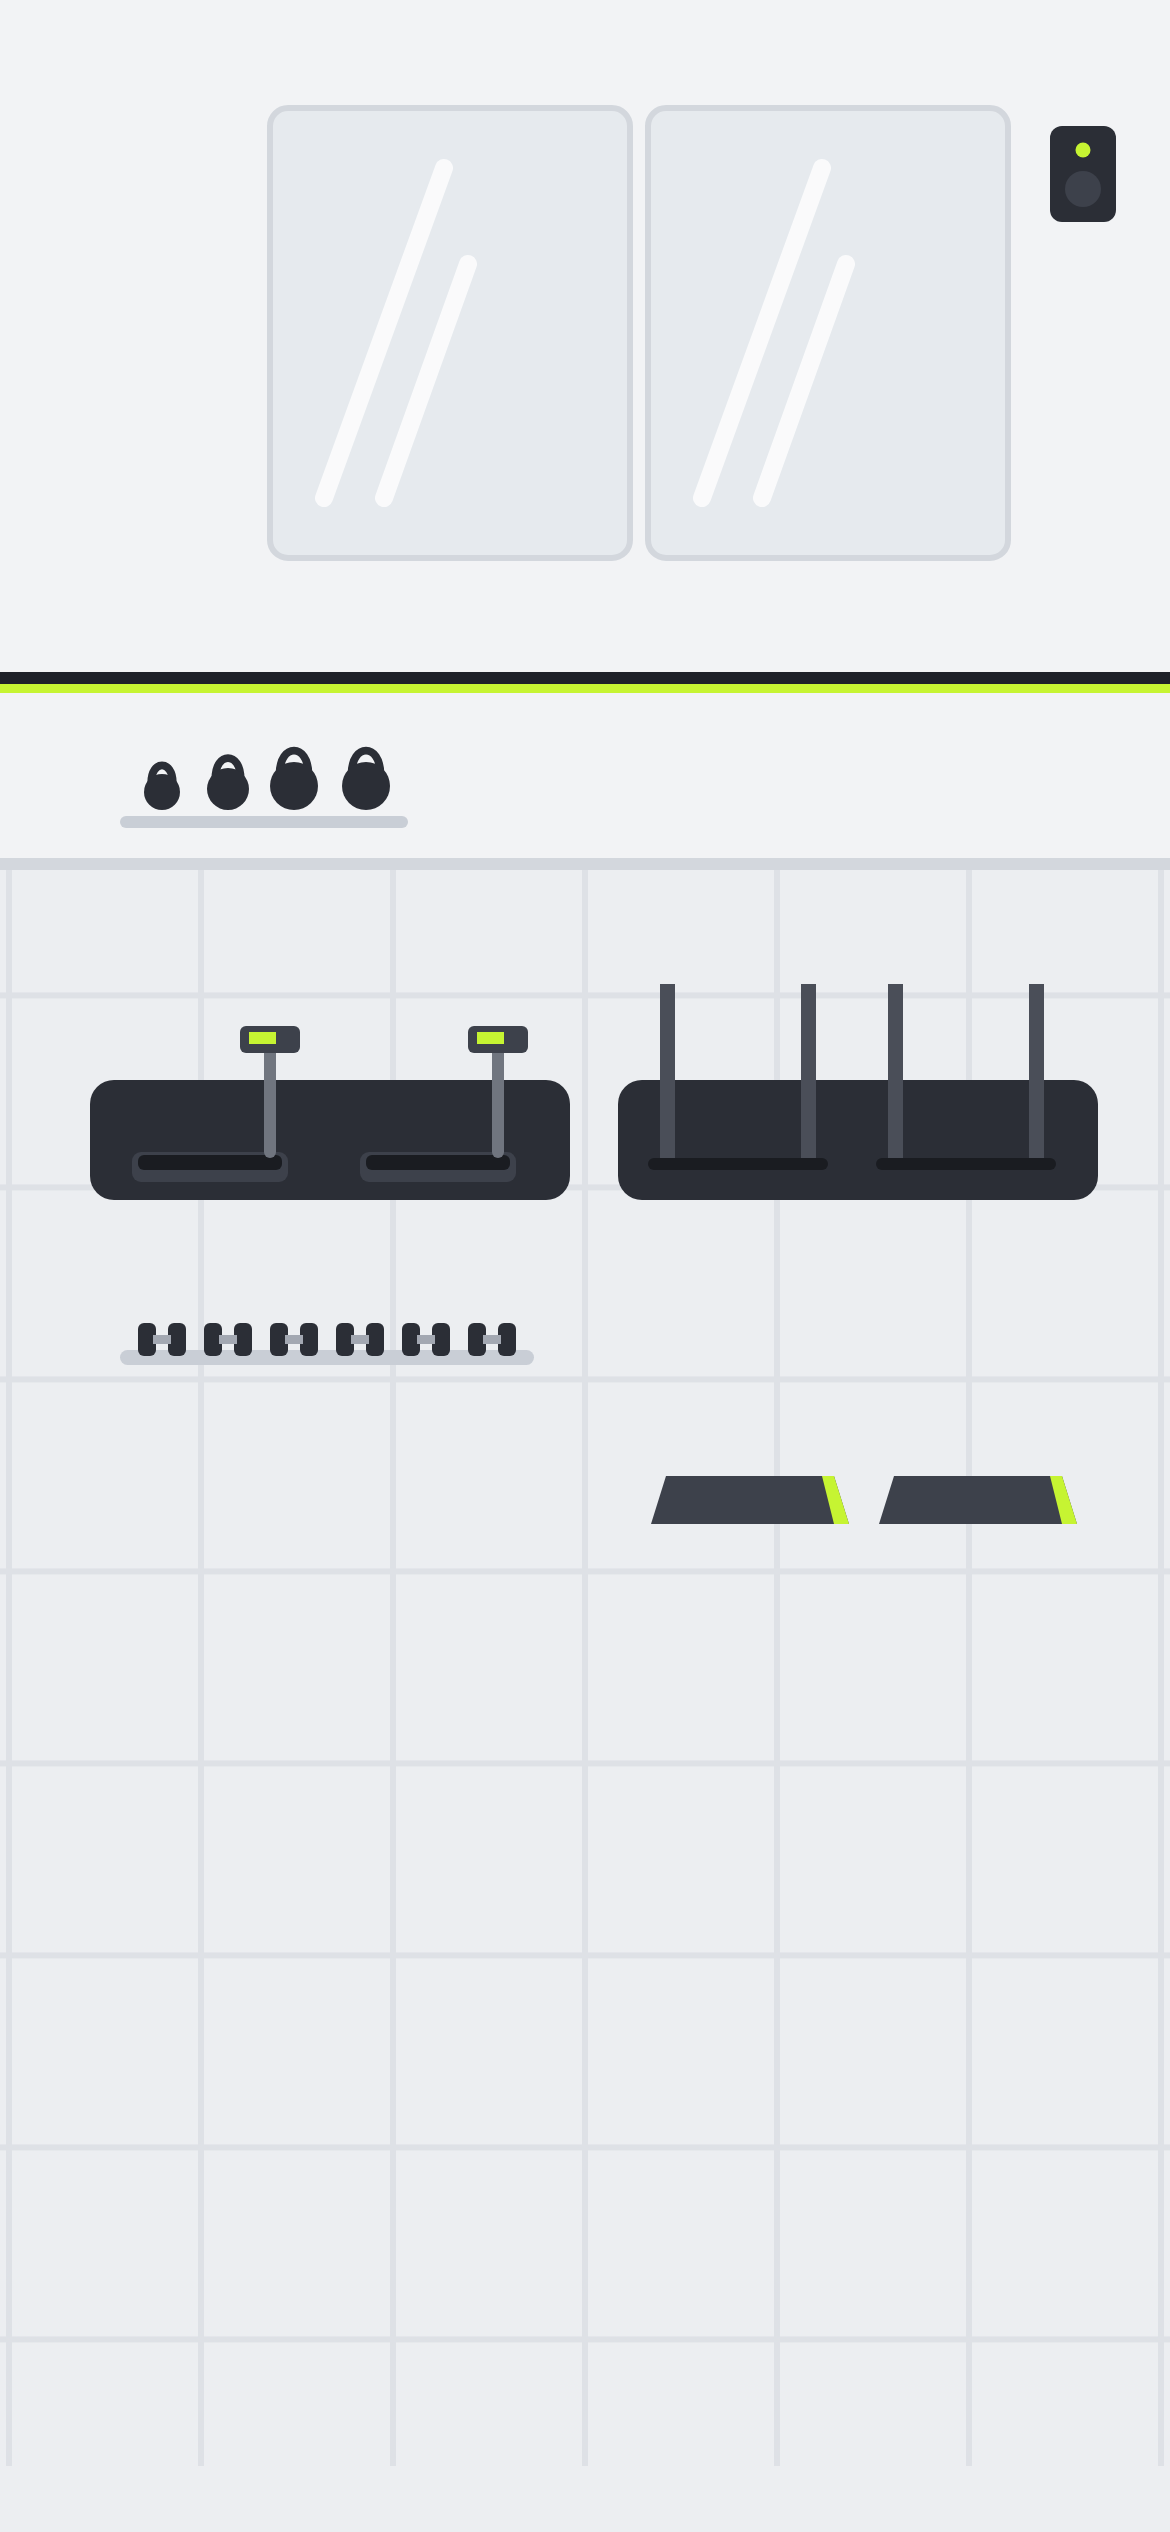
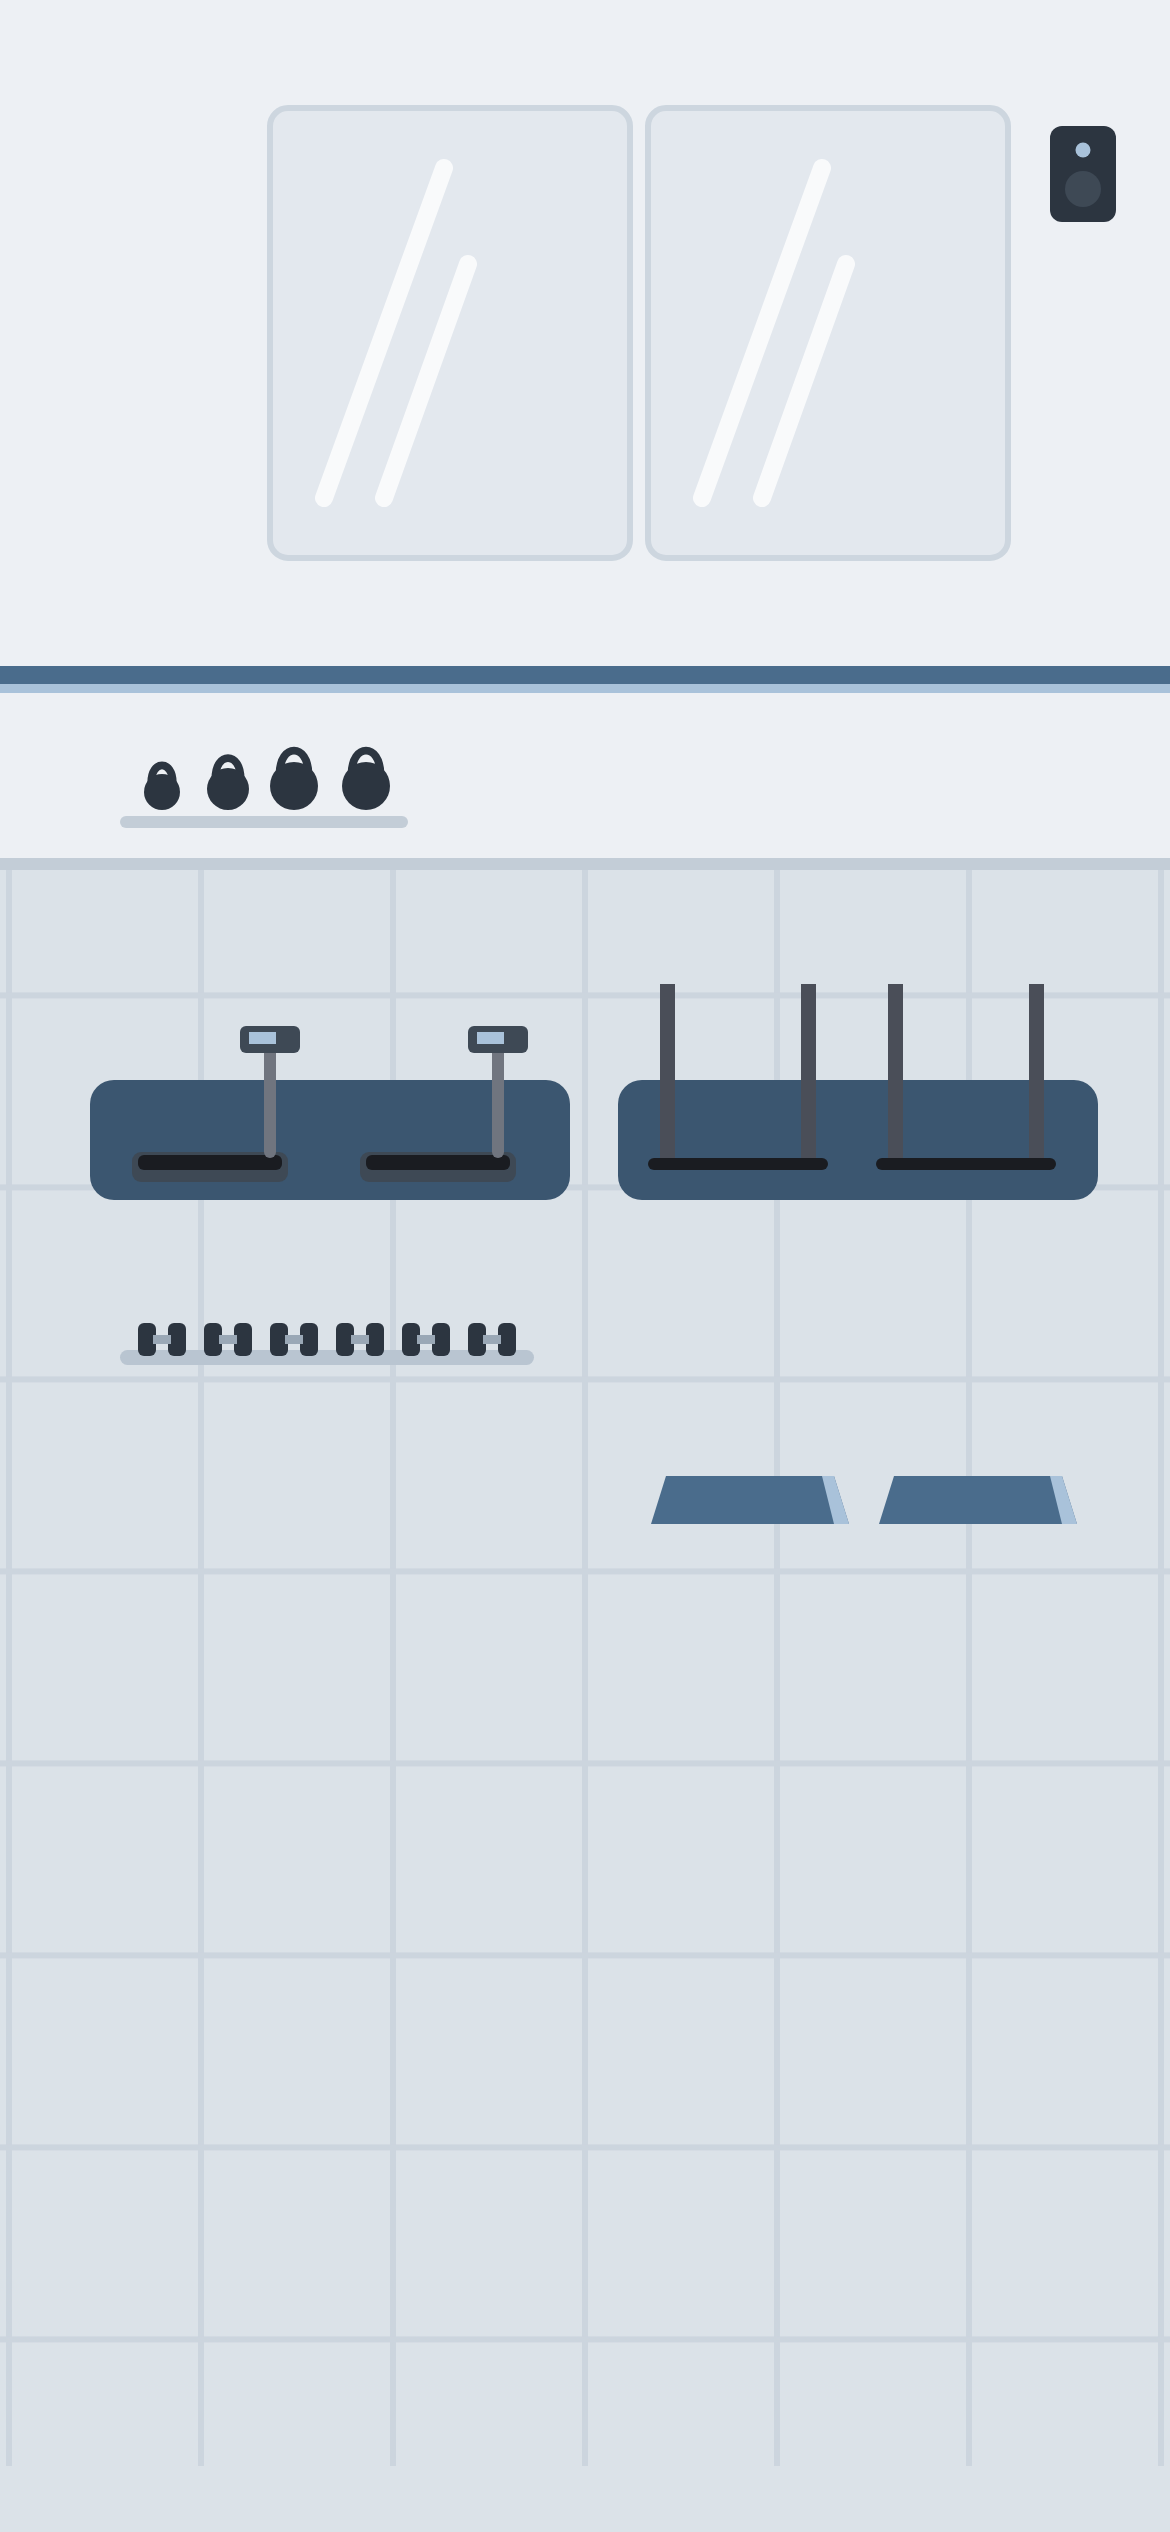
Draw the home's gym in steel
The approved steel gym: steel-grey wall and floor, a steel line and mats
under the machines, steel-tinted equipment and pale steel screens, no
volt. scenes.js's gym() and THEMES.gym carry the values; the PNGs are
what render.mjs writes from it.

Claude-Session: https://claude.ai/code/session_01LMX8JvSMesiaejZneimqLM

diff --git a/ios/Packages/CheckIn/SceneArt/scenes.js b/ios/Packages/CheckIn/SceneArt/scenes.js
@@ -5,7 +5,7 @@ const f1 = n => (+n).toFixed(1);
 const THEMES = {
   track:  { name: '跑道',   sig: '#E65345', shade: '#C23B2E', wash: '#FCEDEB', text: '#B83325', on: '#FFFFFF' },
   pool:   { name: '泳池',   sig: '#079BB8', shade: '#067C93', wash: '#E2F5F9', text: '#066E83', on: '#FFFFFF' },
-  gym:    { name: '健身房', sig: '#1F2128', shade: '#000000', wash: '#EEF0F2', text: '#1F2128', on: '#C6F432' },
+  gym:    { name: '健身房', sig: '#4A6C8C', shade: '#3B5670', wash: '#EDF0F4', text: '#3E5C78', on: '#FFFFFF' },
   tennis: { name: '网球场', sig: '#4F6B22', shade: '#3B5119', wash: '#EEF2E4', text: '#41591B', on: '#FFFFFF' },
   climb:  { name: '攀岩馆', sig: '#8E4A2C', shade: '#6F3820', wash: '#F6EDE8', text: '#7A3E24', on: '#FFFFFF' },
 };
@@ -130,27 +130,27 @@ const SCENES = {
     };
   },
   gym() {
-    const G1 = '#2B2E36', G2 = '#3D414B', V = '#C6F432';
-    let s = `<rect width="390" height="844" fill="#F2F3F5"/>`;
+    const G1 = '#2C3540', G2 = '#3E4955', V = '#4A6C8C', V2 = '#A9C2DA';
+    let s = `<rect width="390" height="844" fill="#EDF0F4"/>`;
     // the wall above the floor, seen full screen when the scene is unboxed: mirrors, a speaker, and a kettlebell rack under the wall line
-    [[150, 120], [276, 120]].forEach(([x, w]) => s += `<rect x="${x - w / 2}" y="60" width="${w}" height="150" rx="6" fill="#E6EAEE" stroke="#D3D7DD" stroke-width="2"/><path d="M${x - w / 2 + 18} 190 L${x - w / 2 + 58} 80 M${x - w / 2 + 38} 190 L${x - w / 2 + 66} 112" stroke="#FFFFFF" stroke-width="6" stroke-linecap="round" opacity=".8"/>`);
-    s += `<rect x="40" y="296" width="96" height="4" rx="2" fill="#C9CED6"/>${[54, 76, 98, 122].map((x, i) => { const r = 6 + Math.min(i, 2), cy = 294 - r; return `<path d="M${x - .6 * r} ${cy - .5 * r} C${x - .6 * r} ${cy - 1.8 * r} ${x + .6 * r} ${cy - 1.8 * r} ${x + .6 * r} ${cy - .5 * r}" stroke="#2B2E36" stroke-width="2.6" fill="none"/><circle cx="${x}" cy="${cy}" r="${r}" fill="#2B2E36"/>`; }).join('')}`;
-    s += `<rect x="350" y="66" width="22" height="32" rx="4" fill="#2B2E36"/><circle cx="361" cy="87" r="6" fill="#3D414B"/><circle cx="361" cy="74" r="2.5" fill="#C6F432"/>`;
-    s += `<rect x="0" y="248" width="390" height="4" fill="#1F2128"/><rect x="0" y="252" width="390" height="3" fill="${V}"/>`;
-    s += tiles(310, 846, '#ECEEF1', '#DEE1E6') + `<rect x="0" y="310" width="390" height="4" fill="#D3D7DD"/>`;
+    [[150, 120], [276, 120]].forEach(([x, w]) => s += `<rect x="${x - w / 2}" y="60" width="${w}" height="150" rx="6" fill="#E3E8EE" stroke="#CDD6DF" stroke-width="2"/><path d="M${x - w / 2 + 18} 190 L${x - w / 2 + 58} 80 M${x - w / 2 + 38} 190 L${x - w / 2 + 66} 112" stroke="#FFFFFF" stroke-width="6" stroke-linecap="round" opacity=".8"/>`);
+    s += `<rect x="40" y="296" width="96" height="4" rx="2" fill="#C3CDD7"/>${[54, 76, 98, 122].map((x, i) => { const r = 6 + Math.min(i, 2), cy = 294 - r; return `<path d="M${x - .6 * r} ${cy - .5 * r} C${x - .6 * r} ${cy - 1.8 * r} ${x + .6 * r} ${cy - 1.8 * r} ${x + .6 * r} ${cy - .5 * r}" stroke="${G1}" stroke-width="2.6" fill="none"/><circle cx="${x}" cy="${cy}" r="${r}" fill="${G1}"/>`; }).join('')}`;
+    s += `<rect x="350" y="66" width="22" height="32" rx="4" fill="${G1}"/><circle cx="361" cy="87" r="6" fill="${G2}"/><circle cx="361" cy="74" r="2.5" fill="${V2}"/>`;
+    s += `<rect x="0" y="246" width="390" height="6" fill="${V}"/><rect x="0" y="252" width="390" height="3" fill="${V2}"/>`;
+    s += tiles(310, 846, '#DBE2E8', '#CCD5DE') + `<rect x="0" y="310" width="390" height="4" fill="#C3CDD7"/>`;
     // dark rubber platforms only under the machines
-    s += `<rect x="30" y="384" width="160" height="40" rx="8" fill="${G1}"/><rect x="206" y="384" width="160" height="40" rx="8" fill="${G1}"/>`;
-    s += `<rect x="40" y="474" width="138" height="5" rx="2.5" fill="#C9CED6"/>`;
-    for (let i = 0; i < 6; i++) s += `<rect x="${46 + i * 22}" y="465" width="6" height="11" rx="2" fill="${G1}"/><rect x="${56 + i * 22}" y="465" width="6" height="11" rx="2" fill="${G1}"/><rect x="${51 + i * 22}" y="469" width="6" height="3" fill="#A3A8B2"/>`;
+    s += `<rect x="30" y="384" width="160" height="40" rx="8" fill="#3B5670"/><rect x="206" y="384" width="160" height="40" rx="8" fill="#3B5670"/>`;
+    s += `<rect x="40" y="474" width="138" height="5" rx="2.5" fill="#B9C5D1"/>`;
+    for (let i = 0; i < 6; i++) s += `<rect x="${46 + i * 22}" y="465" width="6" height="11" rx="2" fill="${G1}"/><rect x="${56 + i * 22}" y="465" width="6" height="11" rx="2" fill="${G1}"/><rect x="${51 + i * 22}" y="469" width="6" height="3" fill="#9AA8B6"/>`;
     // station furniture
-    const tread = x => `<g transform="translate(${x} 412)"><rect x="-26" y="-4" width="52" height="10" rx="3" fill="${G2}"/><rect x="-24" y="-3" width="48" height="5" rx="2" fill="#1A1C21"/><rect x="18" y="-40" width="4" height="38" rx="2" fill="#70757F"/><rect x="10" y="-46" width="20" height="9" rx="2" fill="${G2}"/><rect x="13" y="-44" width="9" height="4" fill="${V}"/></g>`;
+    const tread = x => `<g transform="translate(${x} 412)"><rect x="-26" y="-4" width="52" height="10" rx="3" fill="${G2}"/><rect x="-24" y="-3" width="48" height="5" rx="2" fill="#1A1C21"/><rect x="18" y="-40" width="4" height="38" rx="2" fill="#70757F"/><rect x="10" y="-46" width="20" height="9" rx="2" fill="${G2}"/><rect x="13" y="-44" width="9" height="4" fill="${V2}"/></g>`;
     const rack = x => `<g transform="translate(${x} 412)"><rect x="-26" y="-60" width="5" height="62" fill="#4A4E58"/><rect x="21" y="-60" width="5" height="62" fill="#4A4E58"/><rect x="-30" y="-2" width="60" height="4" rx="2" fill="#1A1C21"/></g>`;
-    const mat = x => `<path d="M${x - 28} 516 L${x + 28} 516 L${x + 33} 532 L${x - 33} 532 Z" fill="#3D414B"/><path d="M${x + 24} 516 L${x + 28} 516 L${x + 33} 532 L${x + 28} 532 Z" fill="${V}"/>`;
+    const mat = x => `<path d="M${x - 28} 516 L${x + 28} 516 L${x + 33} 532 L${x - 33} 532 Z" fill="${V}"/><path d="M${x + 24} 516 L${x + 28} 516 L${x + 33} 532 L${x + 28} 532 Z" fill="${V2}"/>`;
     s += tread(70) + tread(146) + rack(246) + rack(322) + mat(250) + mat(326);
-    s += benchBack(Z.leave, '#FFFFFF', '#D3D7DD');
-    const bar = x => ({ y: 412.6, svg: `<rect x="${x - 32}" y="364" width="64" height="3" rx="1.5" fill="#A3A8B2"/>` });
+    s += benchBack(Z.leave, '#FFFFFF', '#C3CDD7');
+    const bar = x => ({ y: 412.6, svg: `<rect x="${x - 32}" y="364" width="64" height="3" rx="1.5" fill="#9AA8B6"/>` });
     // open: where anyone not on a station may stand; avoid: props on that floor nobody stands on, in screen coordinates after the lift (never on walls, in water or on the court).
-    return { field: [{ x0: 75, x1: 315, y0: 420, y1: 500 }], avoid: [{ x0: 40, x1: 350, y0: 350, y1: 392 }, { x0: 40, x1: 178, y0: 440, y1: 456 }], open: [{ x0: 0, x1: 390, y0: 440, y1: 650 }], lift: 24, floor: '#ECEEF1',
+    return { field: [{ x0: 75, x1: 315, y0: 420, y1: 500 }], avoid: [{ x0: 40, x1: 350, y0: 350, y1: 392 }, { x0: 40, x1: 178, y0: 440, y1: 456 }], open: [{ x0: 0, x1: 390, y0: 440, y1: 650 }], lift: 24, floor: '#DBE2E8',
       bg: s, fronts: [],
       lamps: `<g fill="#FFE9A8" fill-opacity=".1"><ellipse cx="110" cy="440" rx="150" ry="60"/><ellipse cx="290" cy="460" rx="150" ry="60"/></g>`,
       lampsTop: `<g fill="#FFF3C4"><rect x="60" y="180" width="90" height="4" rx="2"/><rect x="240" y="180" width="90" height="4" rx="2"/></g>`,
